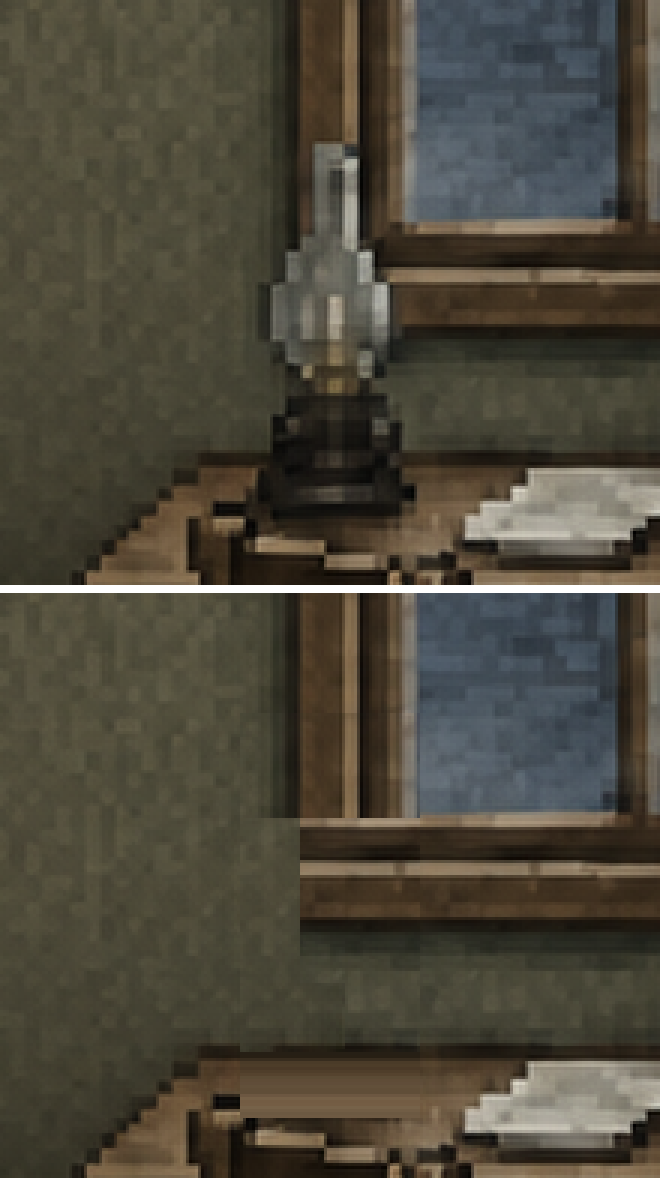
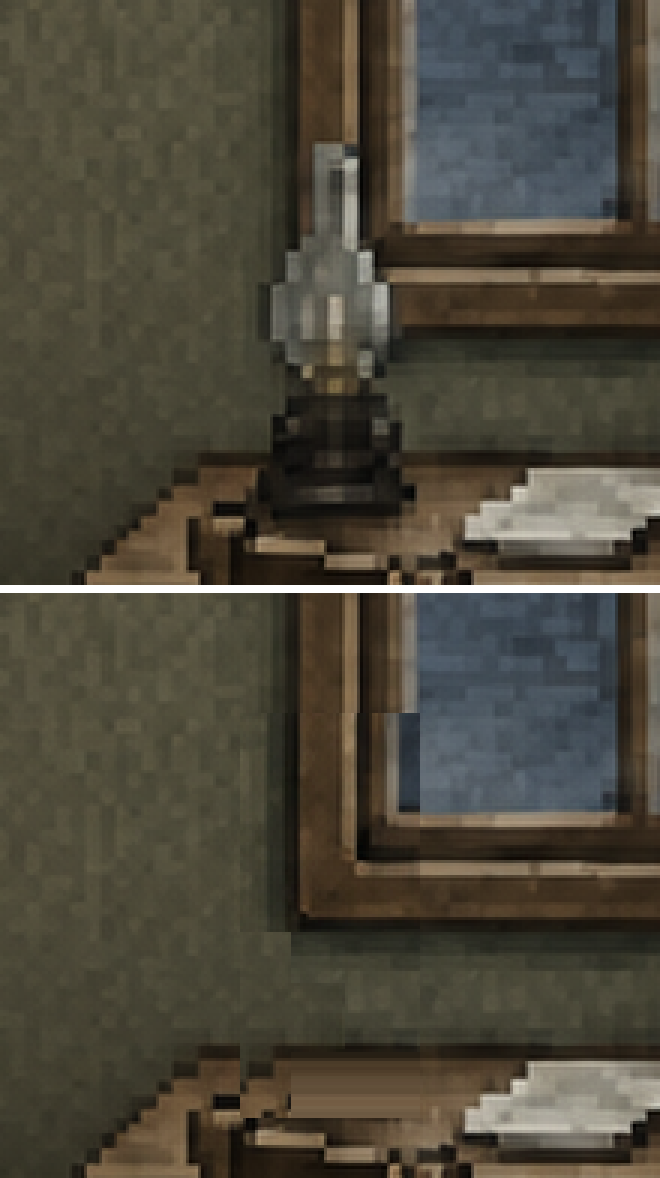
The window frame whole where the lamp stood (errata 364)
The lamp patch put wall over the window frame's lower-left corner. The corner is now the frame's own
lower-right, mirrored, in the left side's light.

Lesson: tests/art-fixes-363.test.mjs (the frame's corner below the chimney is wood), failing on main before this.

Claude-Session: https://claude.ai/code/session_01FXbCus2Hm36NL2YuHFGB8T

Changed region(s): [[0.3939, 0.5806, 0.6364, 0.7946], [0.3636, 0.8862, 0.4545, 0.9474]]

diff --git a/tools/art/art-fixes-363.py b/tools/art/art-fixes-363.py
@@ -39,6 +39,7 @@ def side_by_side(name, before, after, zoom=2):
 # --- 1. THE LAMP, TAKEN ----------------------------------------------------------------------------------------------
 # Act IV's morning plate keeps the lamp on the desk after PICK UP takes it (T_LAMP_TAKEN). A prop of the same plate's
 # wall, window jamb, sill and desk top, copied from beside the lamp, is drawn over it once it is taken.
+WINDOW_MIRROR = 772 + 1001                # x + x' about the window's centre
 LAMP_BOX = (755, 355, 815, 490)          # x0, y0, x1, y1 on the plate: the lamp to the foot of its base, with a margin
 
 
@@ -48,14 +49,26 @@ def lamp():
     plate = rgba('reference/room-grade/originals/art__backgrounds__room-19-thads-room-act4.png')
     out = plate.copy()
     x0, y0, x1, y1 = LAMP_BOX
+    side = lambda xa, xb: plate[300:350, xa:xb, :3].reshape(-1, 3).astype(float).mean(0)
+    gains = {'frame': np.clip(side(772, 795) / side(WINDOW_MIRROR - 795 + 1, WINDOW_MIRROR - 772 + 1), 0.6, 1.8),
+             'wall': np.clip(side(740, 772) / side(WINDOW_MIRROR - 772 + 1, WINDOW_MIRROR - 740 + 1), 0.6, 1.8)}
     for y in range(y0, y1):
         for x in range(x0, x1):
-            if y < 390:
-                src = (x, y - 40)                       # the jamb and the wall run straight up past the chimney
-            elif x < 775 and y < 468:
-                src = (x - 25, y)                       # the wall left of the jamb, from just beside it
+            if y < 428:
+                # ERRATA 364 (Tyler, 2026-11-16: "There's a chunk of window frame missing"): the frame's lower-left
+                # corner, its jamb and rail down to the frame's foot (y 427), is the window's own lower-right corner
+                # mirrored about its centre (the frame runs x 772 to 1001), and the wall beyond it the wall beyond that.
+                # The right side is in shadow: the frame takes the light of the left frame, the wall of the left wall
+                # (each the ratio of the two sides' colour over the clean rows above the chimney, 300 to 350).
+                m = WINDOW_MIRROR - x
+                gain = gains['frame'] if x >= 772 else gains['wall']
+                out[y, x, :3] = np.clip(plate[y, m, :3] * gain, 0, 255).astype(np.uint8)
+                out[y, x, 3] = 255
+                continue
+            elif x < 772:
+                src = (x - 25, y)                       # the wall left of the frame, from just beside it
             elif y < 445:
-                src = (x + 45, y)                       # the sill and its shadow run on to the jamb
+                src = (x + 45, y)                       # the rail's shadow on the wall under it
             elif y < 468:
                 src = (x - 25 if x < 790 else x + 45, y)   # the wall under the sill
             else:

diff --git a/docs/00-errata.md b/docs/00-errata.md
@@ -8672,3 +8672,9 @@ Then "Go", to the recommendations for the art the Acts II to IV reviews left. No
 Lesson:
 - `tests/art-fixes-363.test.mjs`: seven assertions, one for each fix shipped, each failing on main before this (the dawn ridge's 90th-percentile saturation was 1.00 and is 0.49; the spire was ragged on 44 rows and is on none).
 - Doc 55 §8: two rows (a thing taken leaves its place empty; a cut at a plane where a figure stands in water is drawn as water).
+
+## 364 · The window frame whole where the lamp stood (Tyler, 2026-11-16: "There's a chunk of window frame missing.")
+
+Errata 363's patch over the taken lamp put wall where the window frame's lower-left corner is: it ran the jamb straight up past the chimney and the rail on to it, but not the frame's outer edge or the corner where they meet. The frame's lower-left is now its own lower-right corner mirrored about the window's centre (the frame runs x 772 to 1001), in the left side's light (the right is in shadow: one gain for the frame and one for the wall, each the two sides' colour over the rows above the chimney). The wall under it and the desk are as before.
+
+Lesson: `tests/art-fixes-363.test.mjs`: the frame's corner below the chimney is wood, as it is above it; failing on main before this.
